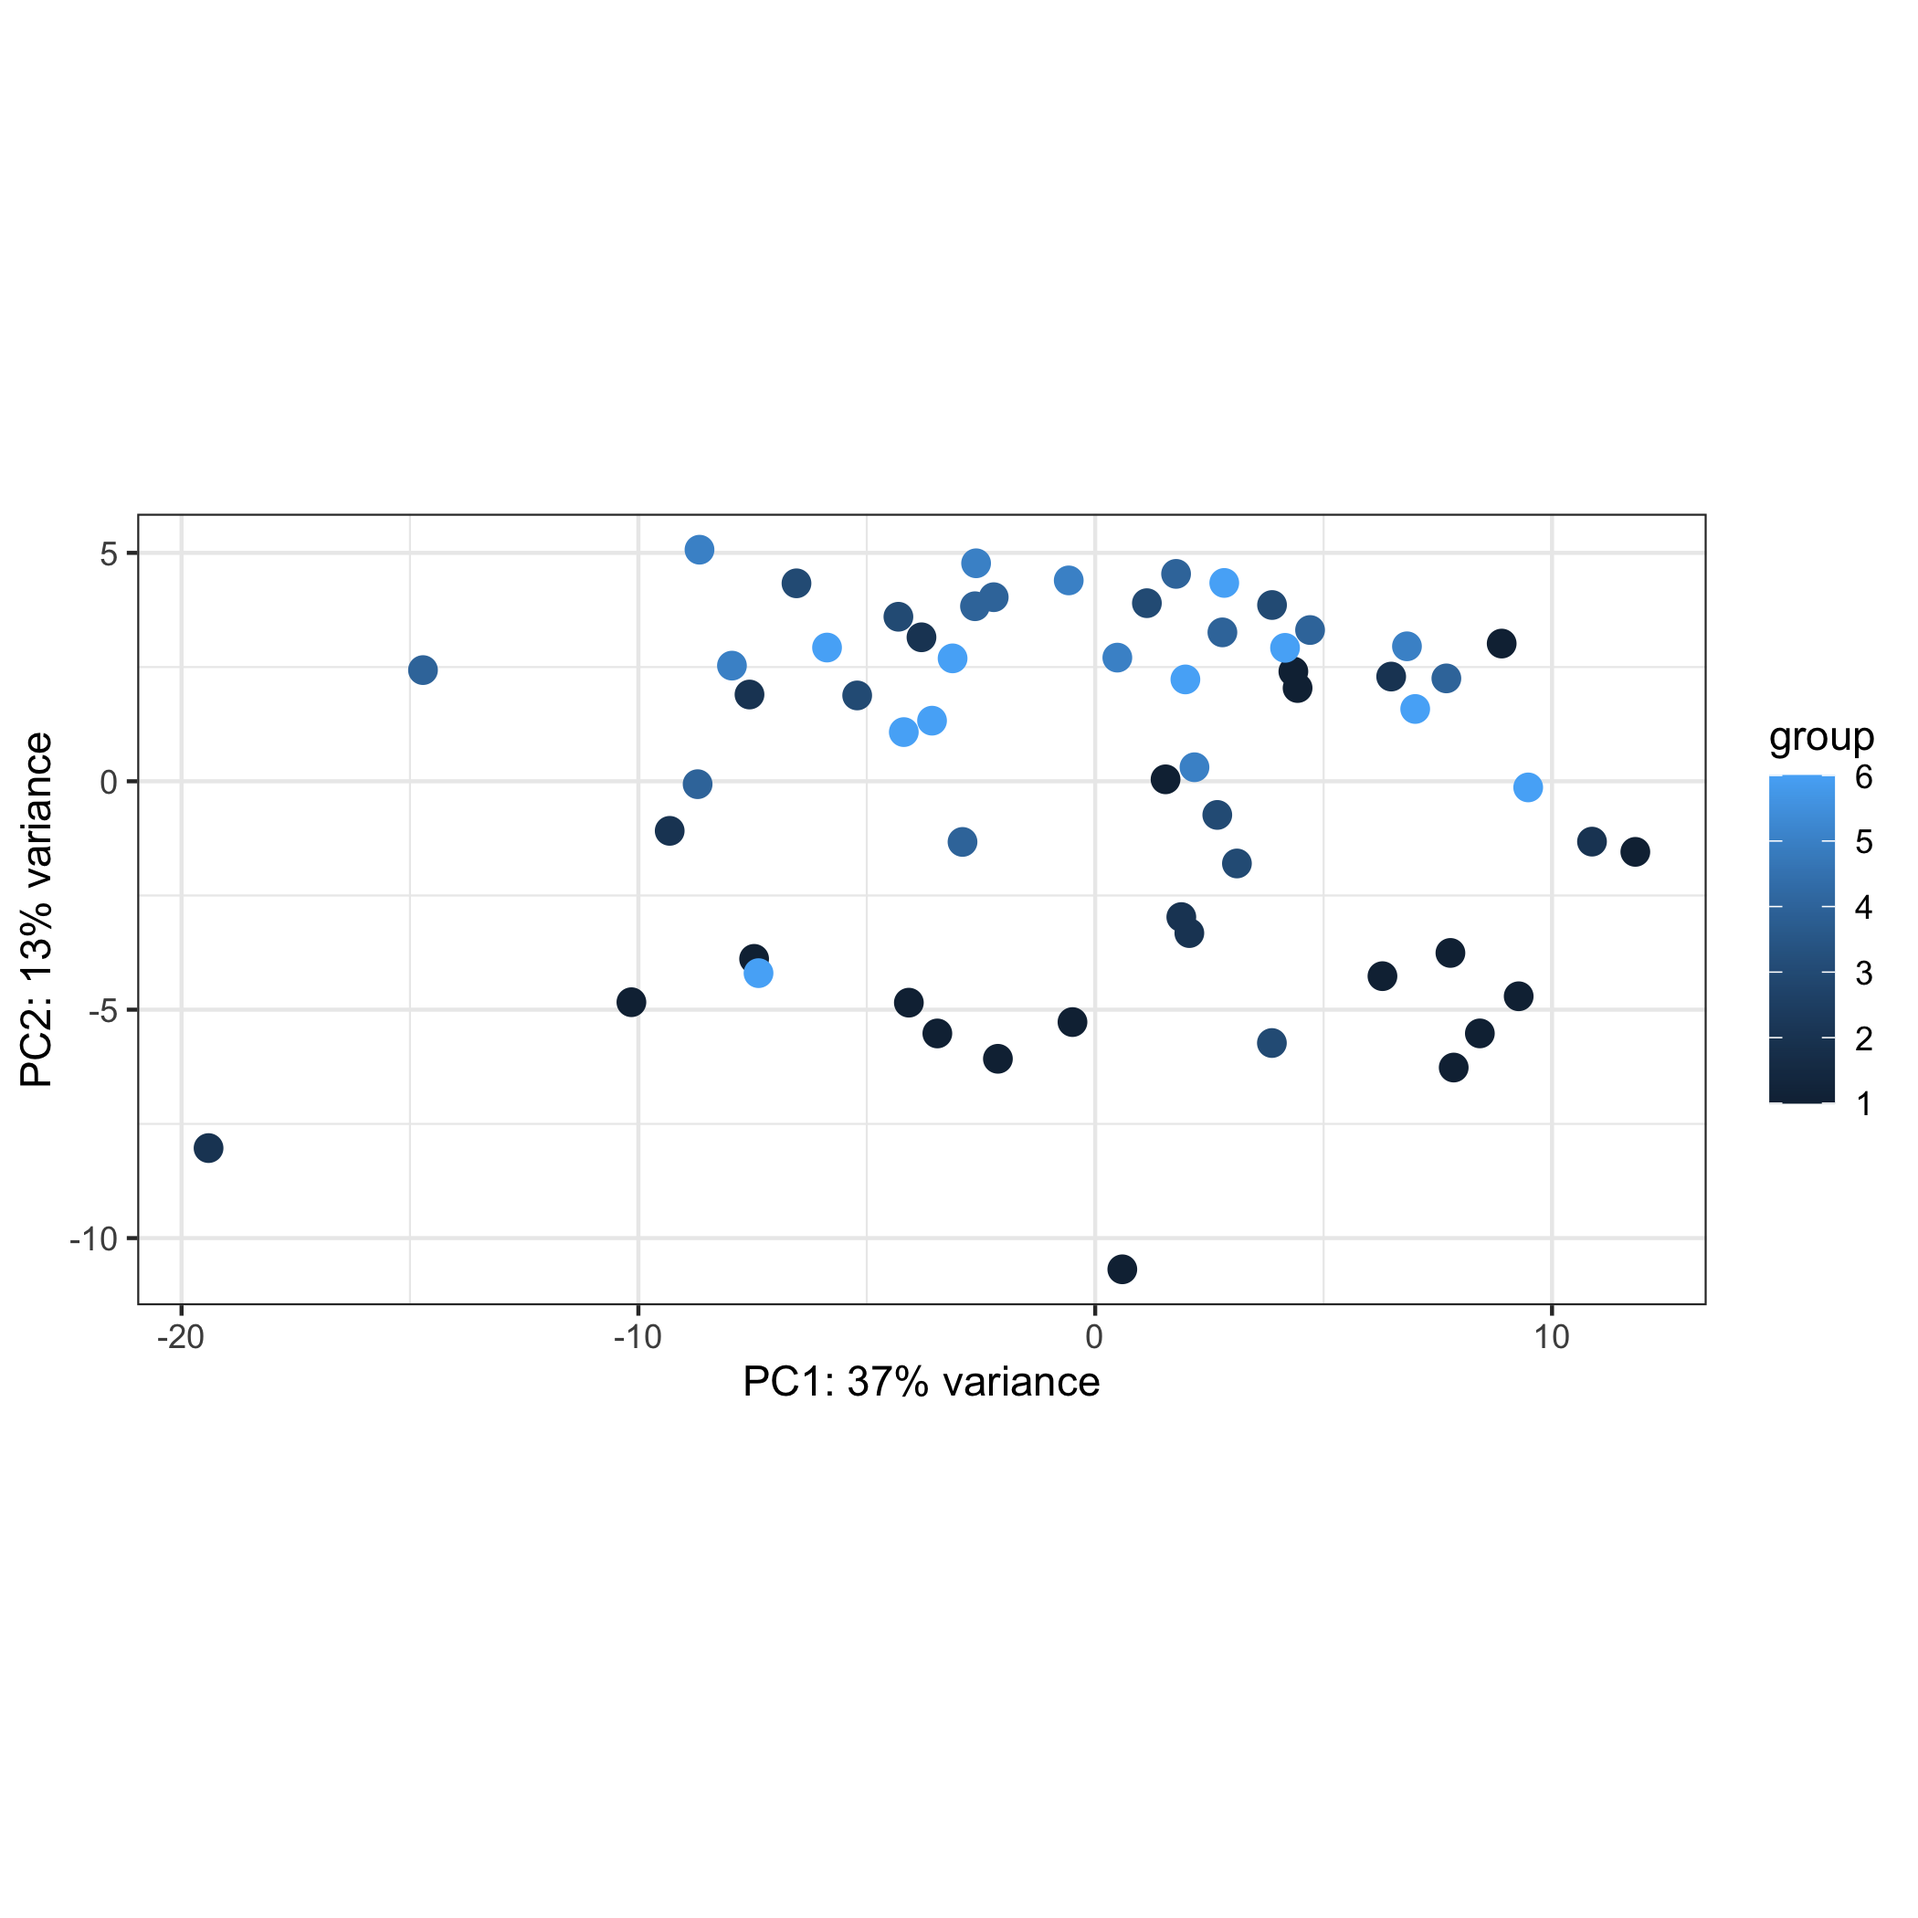
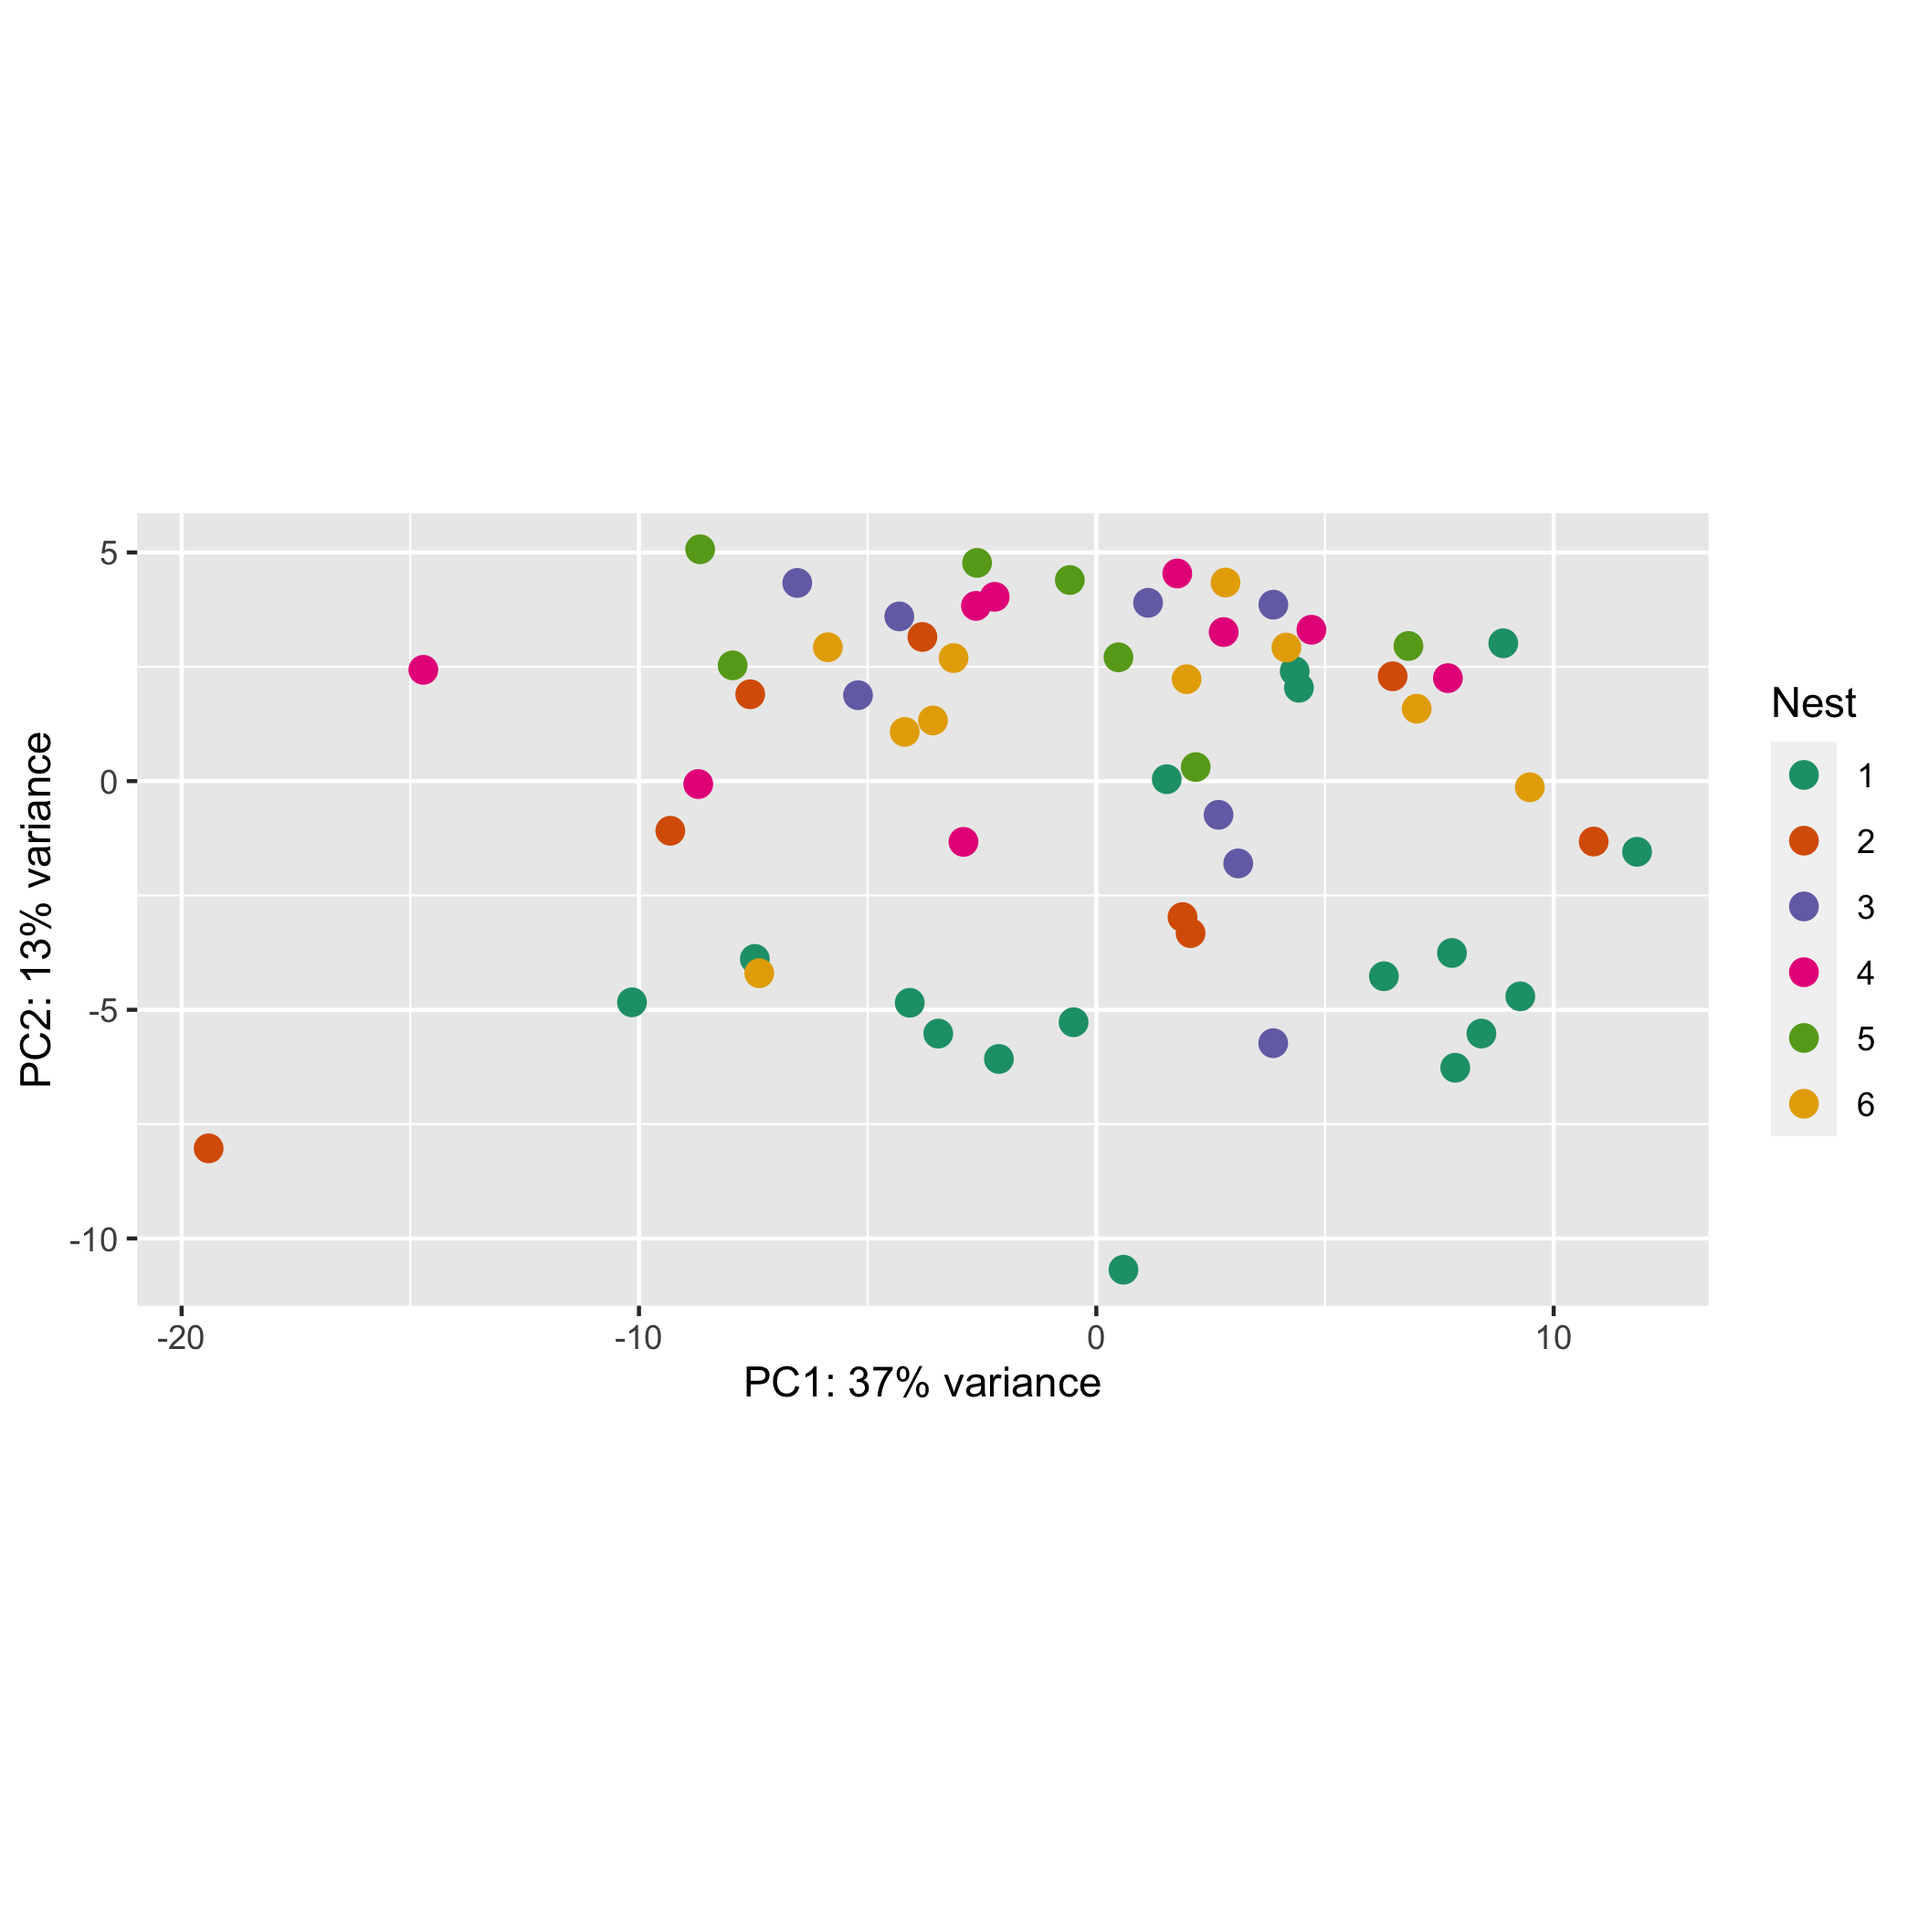
update bee PCA results and methods

diff --git a/Notebook_Mou/02_Methods.md b/Notebook_Mou/02_Methods.md
@@ -872,6 +872,7 @@ Used MultiQC Toolbox on html page to export `featureCounts_assignment_plot` imag
 
 ## Differential expression with DESeq2
 * Sathesh says basemeans correlate with read counts: larger basemean values = more read counts
+* DESeq2 reference guide: http://www.bioconductor.org/packages/release/bioc/vignettes/DESeq2/inst/doc/DESeq2.html#altshrink
 
 ### Bee
 1. Ran `bee_maize_deseq2.Rmd` with Jennifer. Generated `Bee_AllExposedvsAllControlGene.csv` file, saved in `results/`. Made notes in Rmd file.
@@ -896,10 +897,14 @@ ANOVA stats to look at treatment, nest effects on variation (only genes with lar
 ![](results/Bee_AllGenes_PCA_ExposedvsControl.png)<!-- -->
 
 5. Subset by nest `Bee_Nest_DESeq2.csv`, but list of genes and p-values do not appear to be different from `Bee_AllExposedvsAllControlGene.csv`.
-6. Made PCA of all genes, subset by nest. Didn't see any particular clustering by nest, though I couldn't figure out how to change color scheme with the plotPCA function.
+6. Made PCA of all genes, subset by nest. Didn't see any particular clustering by nest.
 ![](results/Bee_AllGenes_PCA_Nest.png)<!-- -->
 
-7. Need to run PCA with only list of differentially expressed genes at nest or treatment group level to see how they cluster.
+7. To do next:
+* Need to run PCA with only list of differentially expressed genes at nest or treatment group level to see how they cluster.
+* Apply shrinkage estimator `lfcShrink(dds, coef="Trt_exposed_vs_ctrl", type = "apeglm")`
+* Apply count outlier detection with Cook's distance `res$stat`
+* Make heatmap of count matrix (`rld` dataset) and sample clustering
 
 ### Maize
 1. Ran `bee_maize_deseq2.Rmd` up to adding metadata csv file. Found maize metadata here: https://www.ebi.ac.uk/ena/browser/view/PRJNA260793. Downloaded report (tsv file). Most important columns are run_accession (sample IDs) and sample_title (groups). Saved as `maize_metadata_All_Info.csv`.
